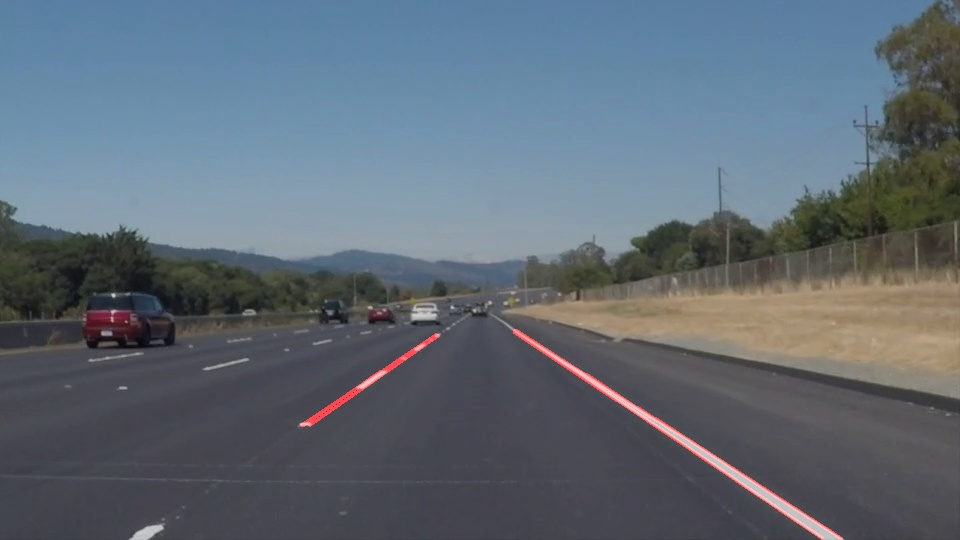
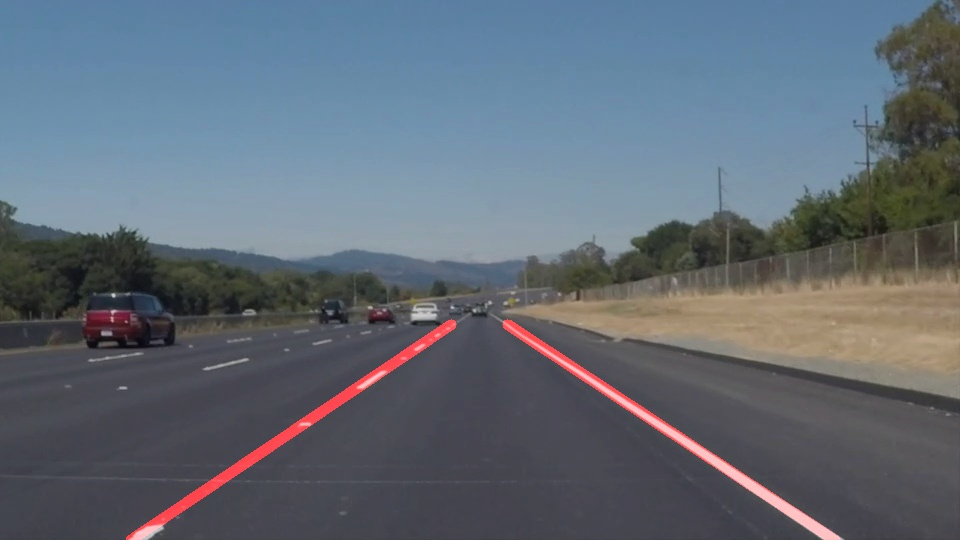
Implement lane line extrapolation to get the full extent of the lane lines

diff --git a/utils.py b/utils.py
@@ -62,7 +62,7 @@ def hough_lines(image, rho, theta, threshold, min_line_length, max_line_gap):
     )
 
 
-def draw_lines(image, lines, color=(0, 0, 255), thickness=2):
+def draw_lines(image, lines, color=(0, 0, 255), thickness=10):
     """Draw line segments onto the image"""
     for line in lines:
         for x1, y1, x2, y2 in line:
@@ -74,6 +74,64 @@ def weighted_img(image_1, alpha, image_2, beta, gamma):
     return cv2.addWeighted(image_1, alpha, image_2, beta, gamma)
 
 
+def split_left_right_lines(lines):
+    """Split the lines into left and right lane lines."""
+    left_lane_lines = []
+    right_lane_lines = []
+
+    for line in lines:
+        for x1, y1, x2, y2 in line:
+            if x2 == x1:
+                continue
+
+            slope = (y2 - y1) / (x2 - x1)
+            if slope < 0:
+                left_lane_lines.append(line)
+            else:
+                right_lane_lines.append(line)
+
+    return left_lane_lines, right_lane_lines
+
+
+def calculate_average_slope(lines):
+    """Calculate the average slope of left and right lane lines."""
+    slope = 0
+    for line in lines:
+        for x1, y1, x2, y2 in line:
+            slope += (y2 - y1) / (x2 - x1)
+
+    return slope / len(lines)
+
+
+def extrapolate_lines(lines, y_min, y_max):
+    """Extrapolate the line segments to get the full extent of the lane lines"""
+    left_lines, right_lines = split_left_right_lines(lines)
+    left_lane_line_slope = calculate_average_slope(left_lines)
+    right_lane_line_slope = calculate_average_slope(right_lines)
+    left_lines_mean = np.mean(left_lines, axis=0)
+    right_lines_mean = np.mean(right_lines, axis=0)
+
+    x1_left = int(
+        (y_min - left_lines_mean[0][1]) / left_lane_line_slope + left_lines_mean[0][0]
+    )
+    x2_left = int(
+        (y_max - left_lines_mean[0][1]) / left_lane_line_slope + left_lines_mean[0][0]
+    )
+    x1_right = int(
+        (y_min - right_lines_mean[0][1]) / right_lane_line_slope
+        + right_lines_mean[0][0]
+    )
+    x2_right = int(
+        (y_max - right_lines_mean[0][1]) / right_lane_line_slope
+        + right_lines_mean[0][0]
+    )
+
+    return np.array(
+        [[[x1_left, y_min, x2_left, y_max], [x1_right, y_min, x2_right, y_max]]],
+        dtype=np.int32,
+    )
+
+
 def process_image(image):
     """Detect lane lines in the image and return the image with lane lines drawn on it."""
     color_selected = color_selection(image)
@@ -83,14 +141,21 @@ def process_image(image):
     edges = canny(blurred_gray, 50, 150)
 
     h, w = image.shape[:2]
+    lower_left = [w / 9, h]
+    lower_right = [w * 8 / 9, h]
+    top_left = [w / 2 - w / 8, h / 2 + h / 10]
+    top_right = [w / 2 + w / 8, h / 2 + h / 10]
     vertices = np.array(
-        [[(0, h), (w / 2 - 45, h / 2 + 60), (w / 2 + 45, h / 2 + 60), (w, h)]],
+        [[lower_left, top_left, top_right, lower_right]],
         dtype=np.int32,
     )
     edges = region_of_interest(edges, vertices)
 
-    lines = hough_lines(edges, 1, np.pi / 180.0, 20, 20, 100)
+    lines = hough_lines(edges, 1, np.pi / 180.0, 30, 20, 200)
+
+    lane_lines = extrapolate_lines(lines, h / 2 + h / 10, h)
+
     line_image = np.zeros_like(image)
-    draw_lines(line_image, lines)
+    draw_lines(line_image, lane_lines)
 
     return weighted_img(image, 0.8, line_image, 1.0, 0.0)
